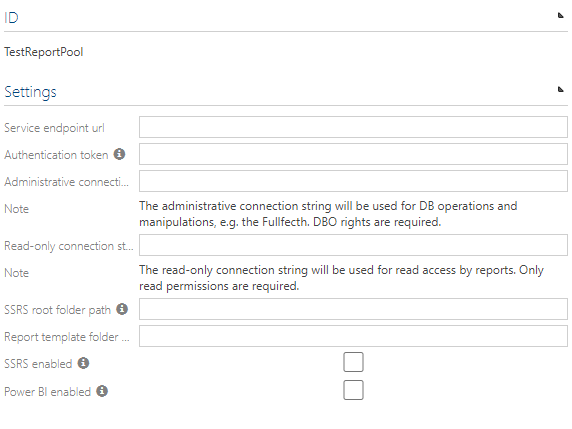
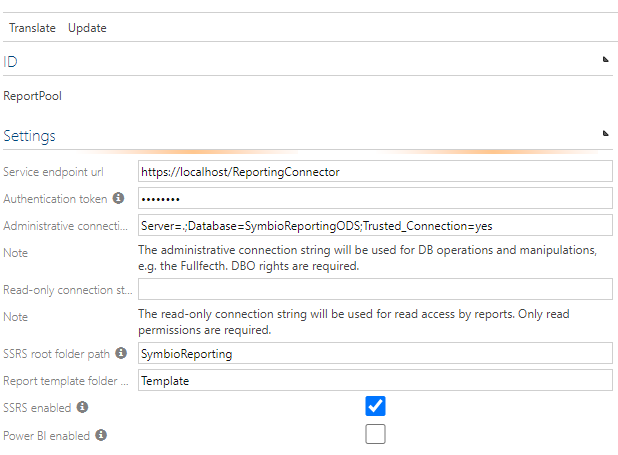
Updated media and text for config-symbio page

diff --git a/docs/admin/services/reporting-service/config-symbio.md b/docs/admin/services/reporting-service/config-symbio.md
@@ -2,9 +2,13 @@
 
 ## Requirements
 
-Reporting [Connector](reporting-connector.md) & [Console](reporting-console.md) are already set up.
+[Reporting Connector](reporting-connector.md) is already set up.
 
 ## Configuration
+
+1. Create and configure a report pool if it does not exist. You may reuse an existing report pool for different storages.
+1. Assign a report pool to a storage. After successful assignment, you can find the authorization token on the admin page's 'Automation' tile.
+1. Enable those reports from the report set you want to use in your connected storage.
 
 ### Report Pool
 
@@ -26,7 +30,7 @@ In Symbio follow these steps to create and configure a report pool:
 | SSRS root folder path | The SSRS root folder path for this connector instance as noted during SSRS worksapce template setup, e.g. SymbioReporting. |
 | Report template folder | The name of the template folder in the root path given above as noted during SSRS workspace template setup, e.g. _Template. |
 | SSRS enabled | Mark this checkbox if you want to support SSRS reports with this report pool. |
-| Power BI enabled | Mark this checkbox if you want to support Power BI reports with this report pool. |
+| Power BI enabled | This is not supported yet. |
 
 ### Connecting a storage to a report pool
 
@@ -40,6 +44,14 @@ In Symbio follow these steps to connect a storage to a report pool:
 ![](media/config-symbio-2.png)
 
 This will trigger the creation of reports in Symbio (if at least one of SSRS or Power BI has been enabled on the pool, and the workspace contains reports to link to).
+
+#### IsPermittedEverywhere
+Please keep in mind that you can set the Symbio authorization token to be permitted everywhere,
+with end end date until this permission set is valid.
+This permission set may be valid for operations or objects it was not intended for,
+and may have an impact on Symbio's behaviour.
+
+![screen](./media/is-permitted-everywhere.png)
 
 ### Activating reports in a storage
 
@@ -55,3 +67,5 @@ In Symbio follow these steps to activate reports in a storage:
 The report is now available in the reporting dropdown:
 
 ![](media/config-symbio-4.png)
+
+
